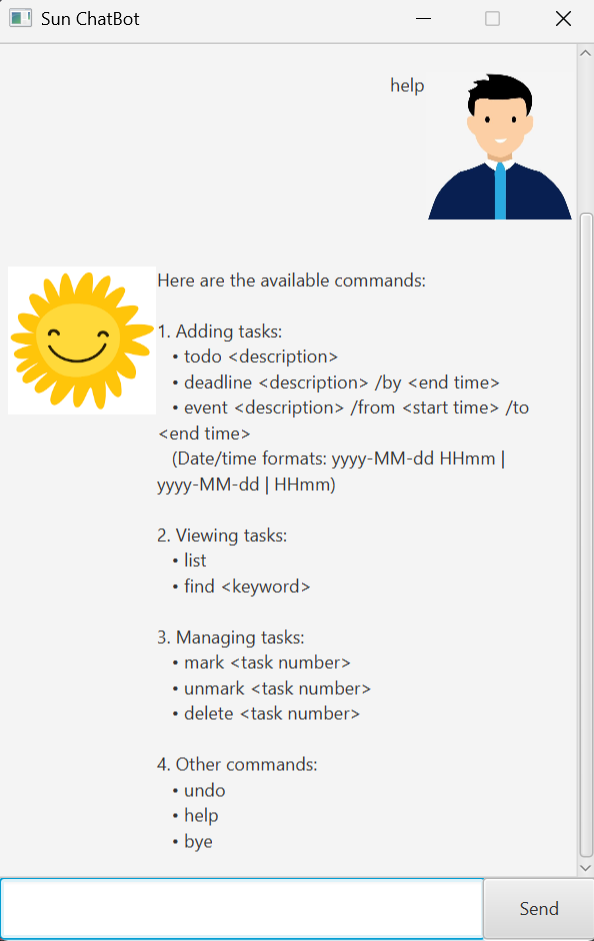
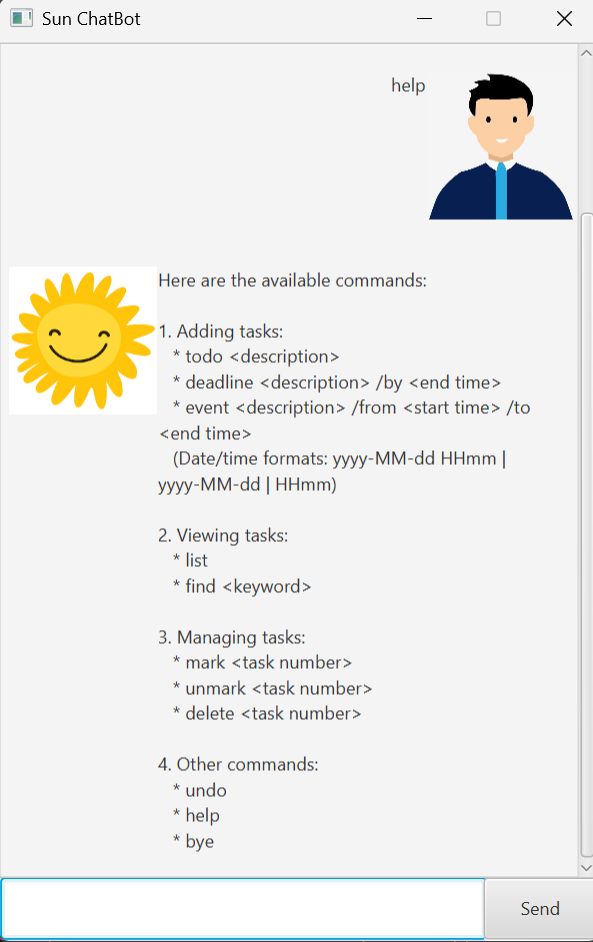
Add "help" to welcome screen

diff --git a/src/main/java/sun/gui/SunAppController.java b/src/main/java/sun/gui/SunAppController.java
@@ -36,7 +36,16 @@ public class SunAppController {
         scrollPane.vvalueProperty().bind(dialogContainer.heightProperty());
 
         dialogContainer.getChildren().add(
-                DialogBox.getSunDialog("Hello! I'm Sun.\nWhat can I do for you?", sunImage)
+                DialogBox.getSunDialog(
+                        """
+                        Hello! I'm Sun.
+                        What can I do for you?
+                        
+                        Psst... need help getting started?
+                        Type "help".
+                        """,
+                        sunImage
+                )
         );
     }
 

diff --git a/docs/README.md b/docs/README.md
@@ -13,7 +13,7 @@ Key features of Sun ChatBot:
 - **Undo actions**: [Undo mistakenly managed task](#undoing-actions).
 - **Find tasks**: [Search for specific tasks](#finding-tasks) by keywords.
 - **Help command**: [View all executable commands](#help-command) anytime.
-- 
+
 Sun ChatBot is designed for anyone who wants a **fast, friendly, and visual way** to keep their tasks organized.
 
 
